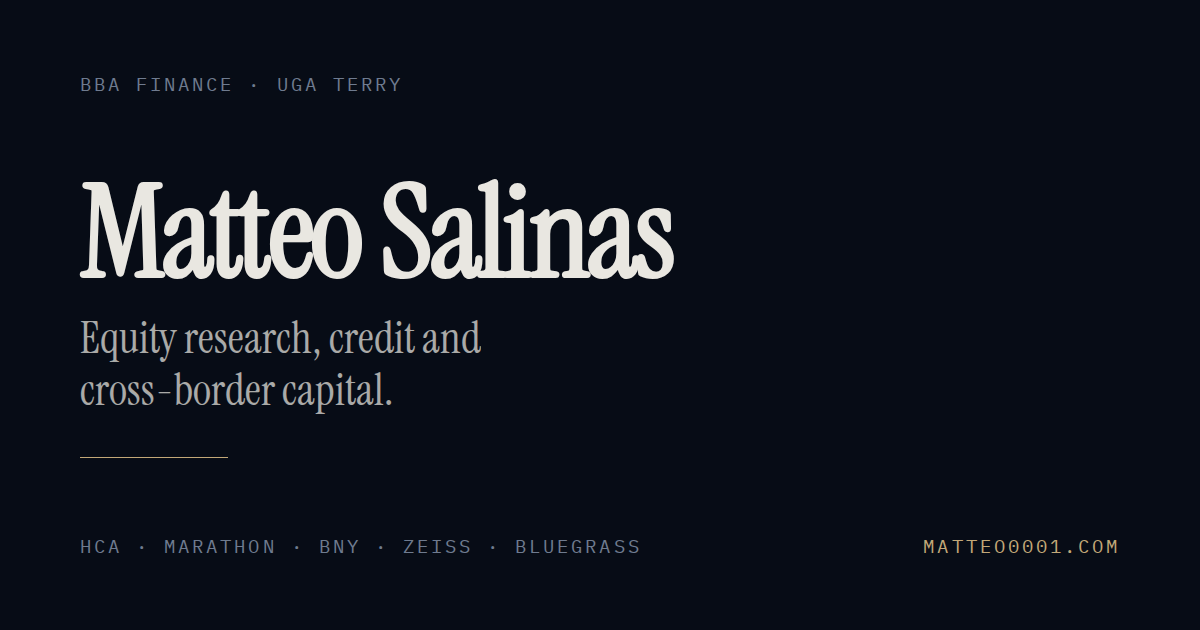
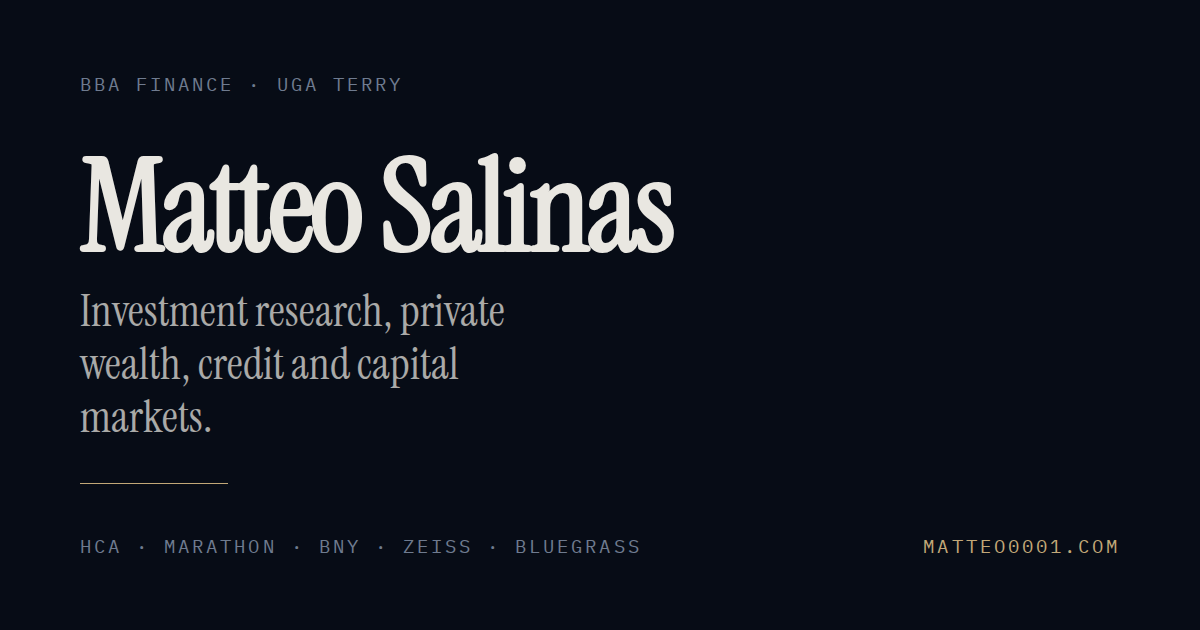
Page-level pass: recruiter usability, one consistent story
A read of the whole page rather than the copy. Three themes: answer a
recruiter's questions where they land, stop Experience and Work explaining
the same things twice, and make every claim one that survives being tested.

Academic standing. 3.50 GPA, and the President's List and Dean's List are
attributed to Kentucky. The row sits under UGA, so an unattributed honour
read as a UGA honour.

Focus is now "Investment Research, Private Wealth, Credit, Capital Markets".
"Markets, equity research, credit, cross-border capital" had stopped
matching the rest of the page, which is about analysis and clients rather
than markets alone. The same wording is mirrored in the meta description,
og:image:alt, the JSON-LD, data/config.js and the share card, so the card
is regenerated too. That is the line most people actually see, in a
LinkedIn message or an email preview.

Availability moved into the hero: what he is recruiting for, that he will
relocate, and that he needs no sponsorship in the US or EU. It was at the
foot of the page, which is the wrong place for the three facts a recruiter
wants first. The Contact line stays, so either end of the page answers
them. The About facts table loses its Abroad row, which said the same
thing a third time.

Experience and Work divided properly. Experience says what the work was
and what it taught; Work carries the evidence. The Roth tool, Sell vs.
Borrow, the HCA model and the ZEISS dashboards each had a full description
[…]

Changed region(s): [[0.0617, 0.2413, 0.5858, 0.6937]]

diff --git a/index.html b/index.html
@@ -4,7 +4,7 @@
   <meta charset="UTF-8" />
   <meta name="viewport" content="width=device-width, initial-scale=1" />
   <title>Matteo Salinas</title>
-  <meta name="description" content="Matteo Salinas. Finance at UGA's Terry College of Business, focused on markets, equity research, credit and cross-border capital." />
+  <meta name="description" content="Matteo Salinas. Finance at UGA's Terry College of Business, focused on investment research, private wealth, credit and capital markets." />
   <link rel="canonical" href="https://matteo0001.com/" />
 
   <meta property="og:type" content="website" />
@@ -14,7 +14,7 @@
   <meta property="og:image" content="https://matteo0001.com/assets/og.png" />
   <meta property="og:image:width" content="1200" />
   <meta property="og:image:height" content="630" />
-  <meta property="og:image:alt" content="Matteo Salinas. BBA Finance, UGA Terry. Equity research, credit and cross-border capital." />
+  <meta property="og:image:alt" content="Matteo Salinas. BBA Finance, UGA Terry. Investment research, private wealth, credit and capital markets." />
   <meta name="twitter:card" content="summary_large_image" />
   <meta name="twitter:image" content="https://matteo0001.com/assets/og.png" />
   <meta name="twitter:title" content="Matteo Salinas" />
@@ -35,7 +35,7 @@
       "image": "https://matteo0001.com/assets/headshot.jpg",
       "email": "mailto:salinasmatteo@gmail.com",
       "jobTitle": "Finance student",
-      "description": "BBA Finance at the University of Georgia's Terry College of Business. Equity research, credit and cross-border capital.",
+      "description": "BBA Finance at the University of Georgia's Terry College of Business. Investment research, private wealth, credit and capital markets.",
       "knowsLanguage": [
         "en",
         "es"
@@ -115,6 +115,8 @@
 
         <p class="hero-facts reveal mono">BBA Finance &middot; UGA Terry &rsquo;28 &middot; BNY Wealth &middot; ZEISS SEA &middot; Bluegrass Capital</p>
 
+        <p class="hero-status reveal mono">Recruiting for Summer 2027 <span class="faint">&middot; Open to relocate &middot; US and EU work authorization</span></p>
+
         <ul class="hero-links reveal mono">
           <li><a class="wipe lead-link" href="about.html">How I got here <span aria-hidden="true">&rarr;</span></a></li>
           <li><a class="wipe" href="https://www.linkedin.com/in/matteosalinas1/" target="_blank" rel="noopener"><svg class="glyph" viewBox="0 0 24 24" fill="currentColor" aria-hidden="true"><path d="M20.45 20.45h-3.56v-5.57c0-1.33-.02-3.04-1.85-3.04-1.85 0-2.13 1.45-2.13 2.94v5.67H9.35V9h3.41v1.56h.05c.48-.9 1.63-1.85 3.36-1.85 3.6 0 4.27 2.37 4.27 5.45v6.29zM5.34 7.43a2.06 2.06 0 1 1 0-4.13 2.06 2.06 0 0 1 0 4.13zM7.12 20.45H3.55V9h3.57v11.45zM22.22 0H1.77C.79 0 0 .77 0 1.72v20.56C0 23.23.79 24 1.77 24h20.45c.98 0 1.78-.77 1.78-1.72V1.72C24 .77 23.2 0 22.22 0z"/></svg> LinkedIn</a></li>
@@ -149,10 +151,9 @@
           <dl class="about-facts reveal mono">
             <div class="fact"><dt>Study</dt><dd>BBA Finance &middot; UGA Terry &middot; Expected May 2028</dd></div>
             <div class="fact"><dt>Previously</dt><dd>University of Kentucky &middot; Aug 2023 &ndash; Spring 2026</dd></div>
-            <div class="fact"><dt>Standing</dt><dd>3.60 GPA &middot; President&rsquo;s List &middot; Dean&rsquo;s List</dd></div>
-            <div class="fact"><dt>Abroad</dt><dd>Open to relocate &middot; US and EU work rights</dd></div>
+            <div class="fact"><dt>Standing</dt><dd>3.50 GPA &middot; President&rsquo;s List &amp; Dean&rsquo;s List, University of Kentucky</dd></div>
             <div class="fact"><dt>Languages</dt><dd>English &middot; Spanish</dd></div>
-            <div class="fact"><dt>Focus</dt><dd>Markets &middot; Equity research &middot; Credit &middot; Cross-border capital</dd></div>
+            <div class="fact"><dt>Focus</dt><dd>Investment Research &middot; Private Wealth &middot; Credit &middot; Capital Markets</dd></div>
           </dl>
 
           <p class="about-more reveal mono">
@@ -175,10 +176,10 @@
         <div class="row-body">
           <h3 class="row-role">Global Investments & Wealth Intern</h3>
           <p class="row-org">BNY <span class="at">&middot; Atlanta, GA</span></p>
-          <p class="row-summary">I rotated across the floor rather than sitting on one desk: private banking, advisory and portfolio management. Most of my time went into developing the dashboards and tools those teams ran on, turning complex client decisions into a clear financial tradeoff an advisor could use in the room, and they were adopted across the wealth team in the Atlanta office. Because my primary mentor was a private banker, much of my work centered on banking and client advisory, and the client side was the part I liked most.</p>
+          <p class="row-summary">I rotated across the floor rather than sitting on one desk: private banking, advisory and portfolio management. Most of my time went into the dashboards and tools those teams ran on, turning a complex client decision into a financial tradeoff an advisor could put a number on in the room. My primary mentor was a private banker, so most of the work was banking and client advisory, and the client side was the part I liked most.</p>
           <details class="row-more">
             <summary class="mono"><span class="plus" aria-hidden="true"></span>What I built</summary>
-            <ul class="row-notes"><li>A Sell vs. Borrow dashboard pricing a taxable liquidation against securities-based lending, so the advisor could put a number on the tradeoff in front of the client.</li><li>A Roth conversion analysis tool from scratch: one-time and multi-year strategies across tax cost, IRMAA and estate outcomes, shipped with an advisor SOP so the desk could run it without me.</li><li>A banking deal sheet dashboard to take the friction out of deal prep.</li><li>Net Worth Statements and client meeting books organizing assets and liabilities across investment, retirement, trust, alternative and real estate holdings.</li><li>Relationship-level SWOT analyses presented for office review, identifying client needs, risks and potential opportunities.</li><li>Prospect coverage across the Southeast and Florida: high-net-worth families, family offices and centers of influence the advisors hadn't reached yet.</li></ul>
+            <ul class="row-notes"><li>A Roth conversion analysis tool and a Sell vs. Borrow dashboard, both written up in Work below, adopted across the wealth team in the Atlanta office.</li><li>A banking deal sheet dashboard to take the friction out of deal prep.</li><li>Net Worth Statements and client meeting books across investment, retirement, trust, alternative and real estate holdings.</li><li>Relationship-level SWOT analyses presented for office review, identifying client needs, risks and potential opportunities.</li><li>Prospect coverage across the Southeast and Florida: high-net-worth families, family offices and centers of influence the advisors hadn't reached yet.</li></ul>
           </details>
         </div>
       </article>
@@ -190,7 +191,7 @@
           <p class="row-summary">I built a five-year unlevered DCF, trading comps and a three-case valuation for HCA. The work forced me to separate the mechanics of valuation from the investment thesis behind it: capital returns, margin durability, and the value of network density.</p>
           <details class="row-more">
             <summary class="mono"><span class="plus" aria-hidden="true"></span>The call</summary>
-            <ul class="row-notes"><li>BUY on HCA Healthcare (NYSE: HCA). $558 price target, 28.4% implied upside.</li><li>WACC analysis and a football-field valuation across the three cases.</li><li>Forward projections off 10-K/10-Q filings and earnings releases across the healthcare, energy and TMT names on the coverage list: revenue, margins, CapEx and working capital.</li></ul>
+            <ul class="row-notes"><li>BUY on HCA Healthcare (NYSE: HCA). $558 price target, 28.4% implied upside. The full report is in Work below.</li><li>Forward projections off 10-K/10-Q filings and earnings releases across the healthcare, energy and TMT names on the coverage list: revenue, margins, CapEx and working capital.</li></ul>
           </details>
         </div>
       </article>
@@ -202,7 +203,7 @@
           <p class="row-summary">I supported the Southeast Asia FP&A team across Singapore, Malaysia, Vietnam and the AEM cluster, working on monthly close, rolling forecasts, budget variance analysis and management reporting. Much of my work focused on improving the data and reporting infrastructure underneath those processes.</p>
           <details class="row-more">
             <summary class="mono"><span class="plus" aria-hidden="true"></span>What I built</summary>
-            <ul class="row-notes"><li>Four Power BI dashboards built from the ground up over SQL-structured datasets, with the transformations in Power Query and the measures written in DAX rather than patched into the source. The dashboards remained in use after my internship.</li><li>Excel models projecting revenue, operating expense and cash flow across the region, built off drivers so one assumption change moved the whole regional forecast.</li><li>Variance analysis against budget and prior forecast, with sales and margin analysis feeding regional strategy.</li><li>Market, competitor and industry research across the four markets.</li></ul>
+            <ul class="row-notes"><li>Four Power BI dashboards built from the ground up over SQL-structured datasets, one per market. The architecture is in Work below. They remained in use after my internship.</li><li>Excel models projecting revenue, operating expense and cash flow across the region, built off drivers so one assumption change moved the whole regional forecast.</li><li>Variance analysis against budget and prior forecast, with sales and margin analysis feeding regional strategy.</li><li>Market, competitor and industry research across the four markets.</li></ul>
           </details>
         </div>
       </article>
@@ -221,9 +222,9 @@
       <article class="row">
         <p class="row-when mono">Aug 2024 – Dec 2025</p>
         <div class="row-body">
-          <h3 class="row-role">Founder & Director of Operations</h3>
+          <h3 class="row-role">Founder & Operator</h3>
           <p class="row-org">MAAD Investments <span class="at">&middot; Atlanta, GA</span></p>
-          <p class="row-summary">An event-driven book in concert and event tickets. Over a hundred event opportunities evaluated a year, priced off supply-demand dynamics rather than instinct, which is the entire edge. Capital allocation, operating budget and full P&L were mine.</p>
+          <p class="row-summary">A ticket resale business built around supply-demand analysis, pricing and disciplined capital allocation. Over a hundred event opportunities evaluated a year, priced off the supply and demand around each one rather than off instinct, which is the entire edge. Capital allocation, operating budget and full P&L were mine.</p>
           <details class="row-more">
             <summary class="mono"><span class="plus" aria-hidden="true"></span>The numbers</summary>
             <ul class="row-notes"><li>$70,000 in revenue within the first five months.</li><li>Managed pricing, inventory, capital allocation and full P&L across concurrent events.</li><li>100+ event opportunities evaluated annually.</li></ul>
@@ -253,7 +254,7 @@
         <p class="project-link"><a class="wipe mono" href="assets/marathon-petroleum.pdf" target="_blank" rel="noopener">Read the full deck <span aria-hidden="true">&#8599;</span></a></p>
         <details>
           <summary class="mono"><span class="plus" aria-hidden="true"></span>Detail</summary>
-          <ul class="project-detail"><li>Built for the University of Kentucky 2026 Stock Pitch Competition.</li><li>Scenario spread rather than a single number: $230 mid-cycle DCF base, ~$232 sum-of-the-parts intrinsic, $287 bull, $142 bear floor.</li><li>The thesis: MPLX, 64% owned, pays MPC $3.5B+ a year in fee-based distributions by 2027, independent of crack spreads. That alone covers the dividend and all standalone CapEx, which makes the refining upside close to free.</li><li>An FCFF discounted cash flow at a 7.90% WACC, a sum-of-the-parts valuing MPC ex-MPLX against pure-play refiner multiples, and a WACC against terminal-growth sensitivity grid.</li><li>A reverse DCF showing that at $232 the market was implying only about 3.5% revenue CAGR over five years.</li><li>Bear case floored at $142, because the midstream distributions hold even when crack spreads compress.</li></ul>
+          <ul class="project-detail"><li>Built for the University of Kentucky 2026 Stock Pitch Competition.</li><li>Scenario spread rather than a single number: $230 mid-cycle DCF base, ~$232 sum-of-the-parts intrinsic, $287 bull, $142 bear.</li><li>The thesis: MPLX, 64% owned, pays MPC $3.5B+ a year in fee-based distributions by 2027, independent of crack spreads. That alone covers the dividend and all standalone CapEx, which makes the refining upside close to free.</li><li>An FCFF discounted cash flow at a 7.90% WACC, a sum-of-the-parts valuing MPC ex-MPLX against pure-play refiner multiples, and a WACC against terminal-growth sensitivity grid.</li><li>A reverse DCF showing that at $232 the market was implying only about 3.5% revenue CAGR over five years.</li><li>The bear case sits at $142 rather than lower because the midstream distributions are contracted and fee-based: the argument is that the downside is set by MPLX, not by crack spreads.</li></ul>
           
     <div class="dcf" data-dcf>
       <p class="dcf-kicker mono faint">The model from the deck, live</p>
@@ -322,7 +323,22 @@
         <p class="project-link"><a class="wipe mono" href="assets/hca-healthcare.pdf" target="_blank" rel="noopener">Read the full report <span aria-hidden="true">&#8599;</span></a></p>
         <details>
           <summary class="mono"><span class="plus" aria-hidden="true"></span>Detail</summary>
-          <ul class="project-detail"><li>Built the revenue, margin, CapEx and working-capital build off 10-K/10-Q filings and earnings releases.</li><li>Differentiated theses on capital return policy, structural margin mispricing and network density compounding.</li><li>Supported by WACC analysis and a football-field valuation across the scenario set.</li><li>The network-density thesis: HCA holds 27% of the US hospital services market and targets 29% by 2030, with outpatient sites compounding referral retention.</li></ul>
+          <ul class="project-detail"><li>Built the revenue, margin, CapEx and working-capital build off 10-K/10-Q filings and earnings releases.</li><li>Differentiated theses on capital return policy, structural margin mispricing and network density compounding.</li><li>Supported by WACC analysis and a football-field valuation across the scenario set.</li><li>The network-density thesis: roughly 27% inpatient share across the markets HCA actually operates in, targeting 29% by 2030, with outpatient sites compounding referral retention inside each one.</li></ul>
+          
+          
+        </details>
+      </article>
+      <article class="project">
+        <div class="project-top mono">
+          <span class="project-tag">ZEISS · FP&A</span>
+          <span class="faint">04</span>
+        </div>
+        <h3>Southeast Asia FP&A Reporting System</h3>
+        <p class="project-note">Four markets reported on four different shapes of source data, which meant the regional pack was rebuilt by hand every month. I rebuilt the layer underneath it: one modelled dataset per market, the logic written once, the monthly pack falling out of it.</p>
+        
+        <details>
+          <summary class="mono"><span class="plus" aria-hidden="true"></span>Detail</summary>
+          <ul class="project-detail"><li>The architecture: source extracts per market, cleaned and conformed in Power Query, modelled into a star schema over SQL-structured datasets, measures written in DAX, surfaced as four Power BI dashboards feeding management reporting.</li><li>Writing the logic as DAX measures rather than patching the source is the part that made it survive: the definitions live in one place, so a change to how margin is calculated moves every market at once instead of being re-fixed four times.</li><li>Covered Singapore, Malaysia, Vietnam and the AEM cluster, against monthly close, rolling forecast and budget variance.</li><li>No figures or screenshots here. The work is the architecture, and the architecture is the part that transfers.</li></ul>
           
           
         </details>
@@ -330,7 +346,7 @@
       <article class="project">
         <div class="project-top mono">
           <span class="project-tag">BNY · Private Banking</span>
-          <span class="faint">04</span>
+          <span class="faint">05</span>
         </div>
         <h3>Sell vs. Borrow Dashboard</h3>
         <p class="project-note">Compares the after-tax cost of liquidating appreciated securities against borrowing against the portfolio, giving an advisor a client-ready view of the tradeoff.</p>
@@ -345,10 +361,10 @@
       <article class="project">
         <div class="project-top mono">
           <span class="project-tag">Founded</span>
-          <span class="faint">05</span>
+          <span class="faint">06</span>
         </div>
         <h3>MAAD Investments</h3>
-        <p class="project-note">An event-driven ticket portfolio. $70,000 of revenue in the first five months.</p>
+        <p class="project-note">A ticket resale business built around supply-demand analysis, pricing and disciplined capital allocation. $70,000 of revenue in the first five months.</p>
         
         <details>
           <summary class="mono"><span class="plus" aria-hidden="true"></span>Detail</summary>
@@ -360,7 +376,7 @@
       <article class="project">
         <div class="project-top mono">
           <span class="project-tag">Founded</span>
-          <span class="faint">06</span>
+          <span class="faint">07</span>
         </div>
         <h3>Sensei Notify</h3>
         <p class="project-note">A subscription research platform I started at fifteen and ran for just over two years: market analysis, alerts and trend forecasting for a market that repriced every weekend. 400+ subscribers at peak, at a 95% retention rate.</p>
@@ -391,7 +407,7 @@
           </div>
           <div>
             <h3 class="col-label mono faint">Involvement</h3>
-            <ul id="involvement-list" class="list"><li class="list-item"><span class="name">Sigma Nu Fraternity</span><span class="by mono">Formal Social Chair &middot; Treasury &middot; Philanthropy &middot; Alumni &middot; Recruitment</span></li><li class="list-item"><span class="name">Order of Omega Honor Society</span><span class="by mono">Member &middot; Top 5% of Greek members</span></li><li class="list-item"><span class="name">Finance Society</span><span class="by mono">Member</span></li><li class="list-item"><span class="name">AI Society</span><span class="by mono">Member</span></li><li class="list-item"><span class="name">M&A Society</span><span class="by mono">Member</span></li><li class="list-item"><span class="name">Economics Society</span><span class="by mono">Member</span></li><li class="list-item"><span class="name">Sales Club</span><span class="by mono">Member</span></li><li class="list-item"><span class="name">DanceBlue</span><span class="by mono">Volunteer Staff</span></li><li class="list-item"><span class="name">Meals by Grace</span><span class="by mono">Assistant</span></li><li class="list-item"><span class="name">Movement Mentor</span><span class="by mono">Mentor</span></li><li class="list-item"><span class="name">57 Day Blood Club</span><span class="by mono">Member</span></li>
+            <ul id="involvement-list" class="list"><li class="list-item"><span class="name">Sigma Nu Fraternity</span><span class="by mono">Formal Social Chair &middot; Treasury &middot; Philanthropy &middot; Alumni &middot; Recruitment</span></li><li class="list-item"><span class="name">Order of Omega Honor Society</span><span class="by mono">Member &middot; Top 5% of Greek members</span></li><li class="list-item"><span class="name">M&A Society</span><span class="by mono">Member</span></li><li class="list-item"><span class="name">Finance Society</span><span class="by mono">Member</span></li><li class="list-item"><span class="name">Economics Society</span><span class="by mono">Member</span></li><li class="list-item list-more"><span class="name mono faint">Also</span><span class="by">AI Society &middot; Sales Club &middot; DanceBlue &middot; Meals by Grace &middot; Movement Mentor &middot; 57 Day Blood Club</span></li>
         </ul>
           </div>
         </div>

diff --git a/data/experience.js b/data/experience.js
@@ -1,6 +1,13 @@
 // Reverse-chronological. Each role is a short piece of prose about what the
 // work actually was, plus the concrete things that came out of it — not a
 // resume bullet list. `artifactsLabel` names that second block per role.
+//
+// This section and the Work section had started to explain the same things
+// twice: BNY described the Roth tool and the Sell vs. Borrow dashboard here,
+// and data/projects.js described both again. The division now is Experience
+// says what the work was and what it taught; Work carries the evidence. So
+// anything with its own entry in projects.js gets one line here and the
+// detail lives there.
 
 export const experience = [
   {
@@ -9,13 +16,12 @@ export const experience = [
     location: "Atlanta, GA",
     dates: "May 2026 – Aug 2026",
     summary:
-      "I rotated across the floor rather than sitting on one desk: private banking, advisory and portfolio management. Most of my time went into developing the dashboards and tools those teams ran on, turning complex client decisions into a clear financial tradeoff an advisor could use in the room, and they were adopted across the wealth team in the Atlanta office. Because my primary mentor was a private banker, much of my work centered on banking and client advisory, and the client side was the part I liked most.",
+      "I rotated across the floor rather than sitting on one desk: private banking, advisory and portfolio management. Most of my time went into the dashboards and tools those teams ran on, turning a complex client decision into a financial tradeoff an advisor could put a number on in the room. My primary mentor was a private banker, so most of the work was banking and client advisory, and the client side was the part I liked most.",
     artifactsLabel: "What I built",
     artifacts: [
-      "A Sell vs. Borrow dashboard pricing a taxable liquidation against securities-based lending, so the advisor could put a number on the tradeoff in front of the client.",
-      "A Roth conversion analysis tool from scratch: one-time and multi-year strategies across tax cost, IRMAA and estate outcomes, shipped with an advisor SOP so the desk could run it without me.",
+      "A Roth conversion analysis tool and a Sell vs. Borrow dashboard, both written up in Work below, adopted across the wealth team in the Atlanta office.",
       "A banking deal sheet dashboard to take the friction out of deal prep.",
-      "Net Worth Statements and client meeting books organizing assets and liabilities across investment, retirement, trust, alternative and real estate holdings.",
+      "Net Worth Statements and client meeting books across investment, retirement, trust, alternative and real estate holdings.",
       "Relationship-level SWOT analyses presented for office review, identifying client needs, risks and potential opportunities.",
       "Prospect coverage across the Southeast and Florida: high-net-worth families, family offices and centers of influence the advisors hadn't reached yet.",
     ],
@@ -29,8 +35,7 @@ export const experience = [
       "I built a five-year unlevered DCF, trading comps and a three-case valuation for HCA. The work forced me to separate the mechanics of valuation from the investment thesis behind it: capital returns, margin durability, and the value of network density.",
     artifactsLabel: "The call",
     artifacts: [
-      "BUY on HCA Healthcare (NYSE: HCA). $558 price target, 28.4% implied upside.",
-      "WACC analysis and a football-field valuation across the three cases.",
+      "BUY on HCA Healthcare (NYSE: HCA). $558 price target, 28.4% implied upside. The full report is in Work below.",
       "Forward projections off 10-K/10-Q filings and earnings releases across the healthcare, energy and TMT names on the coverage list: revenue, margins, CapEx and working capital.",
     ],
   },
@@ -43,7 +48,7 @@ export const experience = [
       "I supported the Southeast Asia FP&A team across Singapore, Malaysia, Vietnam and the AEM cluster, working on monthly close, rolling forecasts, budget variance analysis and management reporting. Much of my work focused on improving the data and reporting infrastructure underneath those processes.",
     artifactsLabel: "What I built",
     artifacts: [
-      "Four Power BI dashboards built from the ground up over SQL-structured datasets, with the transformations in Power Query and the measures written in DAX rather than patched into the source. The dashboards remained in use after my internship.",
+      "Four Power BI dashboards built from the ground up over SQL-structured datasets, one per market. The architecture is in Work below. They remained in use after my internship.",
       "Excel models projecting revenue, operating expense and cash flow across the region, built off drivers so one assumption change moved the whole regional forecast.",
       "Variance analysis against budget and prior forecast, with sales and margin analysis feeding regional strategy.",
       "Market, competitor and industry research across the four markets.",
@@ -64,11 +69,11 @@ export const experience = [
   },
   {
     org: "MAAD Investments",
-    role: "Founder & Director of Operations",
+    role: "Founder & Operator",
     location: "Atlanta, GA",
     dates: "Aug 2024 – Dec 2025",
     summary:
-      "An event-driven book in concert and event tickets. Over a hundred event opportunities evaluated a year, priced off supply-demand dynamics rather than instinct, which is the entire edge. Capital allocation, operating budget and full P&L were mine.",
+      "A ticket resale business built around supply-demand analysis, pricing and disciplined capital allocation. Over a hundred event opportunities evaluated a year, priced off the supply and demand around each one rather than off instinct, which is the entire edge. Capital allocation, operating budget and full P&L were mine.",
     artifactsLabel: "The numbers",
     artifacts: [
       "$70,000 in revenue within the first five months.",

diff --git a/data/projects.js b/data/projects.js
@@ -13,11 +13,11 @@ export const projects = [
     note: "The market prices MPC as a pure refiner and misses the midstream business underneath it. MPLX, 64% owned, generates enough fee-based cash to cover the dividend and all standalone CapEx, which materially reduces MPC&rsquo;s dependence on refining economics and supports a stronger downside case than a pure-refiner valuation implies. Strong Buy &middot; price at publication ~$232, April 2026 &middot; bull case $287 &middot; bear case $142.",
     detail: [
       "Built for the University of Kentucky 2026 Stock Pitch Competition.",
-      "Scenario spread rather than a single number: $230 mid-cycle DCF base, ~$232 sum-of-the-parts intrinsic, $287 bull, $142 bear floor.",
+      "Scenario spread rather than a single number: $230 mid-cycle DCF base, ~$232 sum-of-the-parts intrinsic, $287 bull, $142 bear.",
       "The thesis: MPLX, 64% owned, pays MPC $3.5B+ a year in fee-based distributions by 2027, independent of crack spreads. That alone covers the dividend and all standalone CapEx, which makes the refining upside close to free.",
       "An FCFF discounted cash flow at a 7.90% WACC, a sum-of-the-parts valuing MPC ex-MPLX against pure-play refiner multiples, and a WACC against terminal-growth sensitivity grid.",
       "A reverse DCF showing that at $232 the market was implying only about 3.5% revenue CAGR over five years.",
-      "Bear case floored at $142, because the midstream distributions hold even when crack spreads compress.",
+      "The bear case sits at $142 rather than lower because the midstream distributions are contracted and fee-based: the argument is that the downside is set by MPLX, not by crack spreads.",
     ],
     link: { href: "assets/marathon-petroleum.pdf", label: "Read the full deck" },
   },
@@ -40,9 +40,21 @@ export const projects = [
       "Built the revenue, margin, CapEx and working-capital build off 10-K/10-Q filings and earnings releases.",
       "Differentiated theses on capital return policy, structural margin mispricing and network density compounding.",
       "Supported by WACC analysis and a football-field valuation across the scenario set.",
-      "The network-density thesis: HCA holds 27% of the US hospital services market and targets 29% by 2030, with outpatient sites compounding referral retention.",
+      "The network-density thesis: roughly 27% inpatient share across the markets HCA actually operates in, targeting 29% by 2030, with outpatient sites compounding referral retention inside each one.",
     ],
     link: { href: "assets/hca-healthcare.pdf", label: "Read the full report" },
+  },
+  {
+    title: "Southeast Asia FP&A Reporting System",
+    tag: "ZEISS \u00b7 FP&A",
+    note: "Four markets reported on four different shapes of source data, which meant the regional pack was rebuilt by hand every month. I rebuilt the layer underneath it: one modelled dataset per market, the logic written once, the monthly pack falling out of it.",
+    detail: [
+      "The architecture: source extracts per market, cleaned and conformed in Power Query, modelled into a star schema over SQL-structured datasets, measures written in DAX, surfaced as four Power BI dashboards feeding management reporting.",
+      "Writing the logic as DAX measures rather than patching the source is the part that made it survive: the definitions live in one place, so a change to how margin is calculated moves every market at once instead of being re-fixed four times.",
+      "Covered Singapore, Malaysia, Vietnam and the AEM cluster, against monthly close, rolling forecast and budget variance.",
+      "No figures or screenshots here. The work is the architecture, and the architecture is the part that transfers.",
+    ],
+    link: null,
   },
   {
     title: "Sell vs. Borrow Dashboard",
@@ -57,7 +69,7 @@ export const projects = [
   {
     title: "MAAD Investments",
     tag: "Founded",
-    note: "An event-driven ticket portfolio. $70,000 of revenue in the first five months.",
+    note: "A ticket resale business built around supply-demand analysis, pricing and disciplined capital allocation. $70,000 of revenue in the first five months.",
     detail: [
       "Evaluated 100+ event opportunities a year, pricing off supply-demand dynamics and market research.",
       "Sized positions across concurrent events so no single night carried the book.",

diff --git a/css/main.css b/css/main.css
@@ -785,8 +785,19 @@ button {
 }
 
 /* What he is recruiting for and when. The most useful line on a recruiting
-   site, and Contact used to carry only a location. */
+   site, and Contact used to carry only a location.
+   It appears twice on purpose: a recruiter who lands in the hero and one who
+   scrolls to the foot both get the answer without hunting for it. */
 .contact-status { color: var(--bone-dim); }
+
+/* The hero copy of it. Two mono lines of equal weight under the lede read as
+   one block of metadata and neither gets looked at, so the status line sits
+   tighter to the facts above it and leads in the accent, with the three
+   answers themselves dimmed. */
+.hero-status {
+  margin: 0.55rem 0 0;
+  color: var(--accent);
+}
 
 /* ==========================================================================
    Interactive DCF
@@ -1095,6 +1106,21 @@ button {
   margin: 0;
   color: var(--muted);
   text-align: right;
+}
+
+/* The collapsed tail of the involvement list. It is one label and a run of
+   names, so it has to read as a line of prose rather than as a right-aligned
+   value: the label shrinks to a rail marker and the names take the width. */
+.list-more .name {
+  flex: 0 0 auto;
+  color: var(--muted);
+}
+
+.list-more .by {
+  flex: 1 1 22ch;
+  text-align: left;
+  color: var(--bone-dim);
+  font-size: 0.95rem;
 }
 
 /* Narrow screens: let label/value stack cleanly instead of half-wrapping
@@ -1621,6 +1647,7 @@ button {
     max-width: none;
   }
   .hero-facts { margin-top: 0.5rem; }
+  .hero-status { margin-top: 0.25rem; }
   .hero-links { margin-top: 0.5rem; }
 
   /* Bands are spaced for scrolling, not for reading a stack of pages. */

diff --git a/data/involvement.js b/data/involvement.js
@@ -1,16 +1,29 @@
-// Involvement, not leadership: chaired and elected roles first, then the
-// societies, then volunteering. Add an entry to grow the list.
+// Involvement.
+//
+// `featured: true` puts an entry in the list proper. Everything else is
+// collapsed into a single "Also" line underneath it. That split exists
+// because eleven rows of mostly "Member" diluted the four that actually say
+// something: by the time a reader reached Sigma Nu's chaired roles they had
+// scrolled past six identical lines. Nothing is dropped — the rest is still
+// on the page, just not competing with the signal.
+//
+// Chaired and elected roles first, then the societies, then volunteering.
 
 export const involvement = [
   {
     org: "Sigma Nu Fraternity",
     roles: ["Formal Social Chair", "Treasury", "Philanthropy", "Alumni", "Recruitment"],
+    featured: true,
   },
-  { org: "Order of Omega Honor Society", roles: ["Member", "Top 5% of Greek members"] },
-  { org: "Finance Society", roles: ["Member"] },
+  {
+    org: "Order of Omega Honor Society",
+    roles: ["Member", "Top 5% of Greek members"],
+    featured: true,
+  },
+  { org: "M&A Society", roles: ["Member"], featured: true },
+  { org: "Finance Society", roles: ["Member"], featured: true },
+  { org: "Economics Society", roles: ["Member"], featured: true },
   { org: "AI Society", roles: ["Member"] },
-  { org: "M&A Society", roles: ["Member"] },
-  { org: "Economics Society", roles: ["Member"] },
   { org: "Sales Club", roles: ["Member"] },
   { org: "DanceBlue", roles: ["Volunteer Staff"] },
   { org: "Meals by Grace", roles: ["Assistant"] },

diff --git a/js/templates.js b/js/templates.js
@@ -75,12 +75,27 @@ export function skillsHtml(skills) {
 }
 
 export function involvementHtml(involvement) {
-  return involvement
+  const featured = involvement.filter((item) => item.featured);
+  const rest = involvement.filter((item) => !item.featured);
+
+  const rows = featured
     .map(
       (item) =>
         `<li class="list-item"><span class="name">${item.org}</span><span class="by mono">${item.roles.join(" &middot; ")}</span></li>`
     )
     .join("");
+
+  // The remainder as one wrapped line rather than one row each. Six more
+  // rows reading "Member" cost 400px of scroll and told a reader nothing
+  // the first five had not; as a single line they are still on the page for
+  // anyone who wants them.
+  const more = rest.length
+    ? `<li class="list-item list-more"><span class="name mono faint">Also</span><span class="by">${rest
+        .map((item) => item.org)
+        .join(" &middot; ")}</span></li>`
+    : "";
+
+  return rows + more;
 }
 
 export function chaptersHtml(chapters) {

diff --git a/data/config.js b/data/config.js
@@ -10,7 +10,7 @@ export const config = {
     name: "Matteo Salinas",
     title: "Matteo Salinas",
     description:
-      "Matteo Salinas. Finance at UGA's Terry College of Business, focused on markets, equity research, credit and cross-border capital.",
+      "Matteo Salinas. Finance at UGA's Terry College of Business, focused on investment research, private wealth, credit and capital markets.",
     url: "https://matteo0001.com",
   },
 
